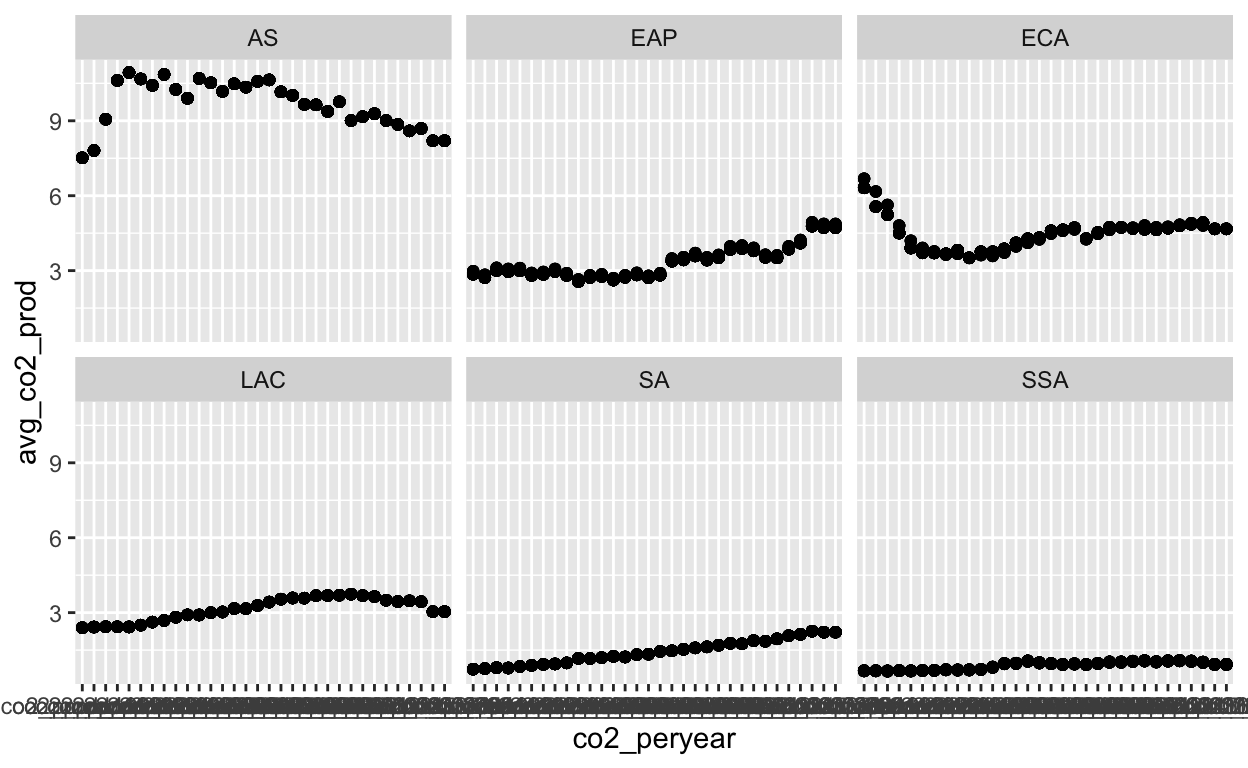
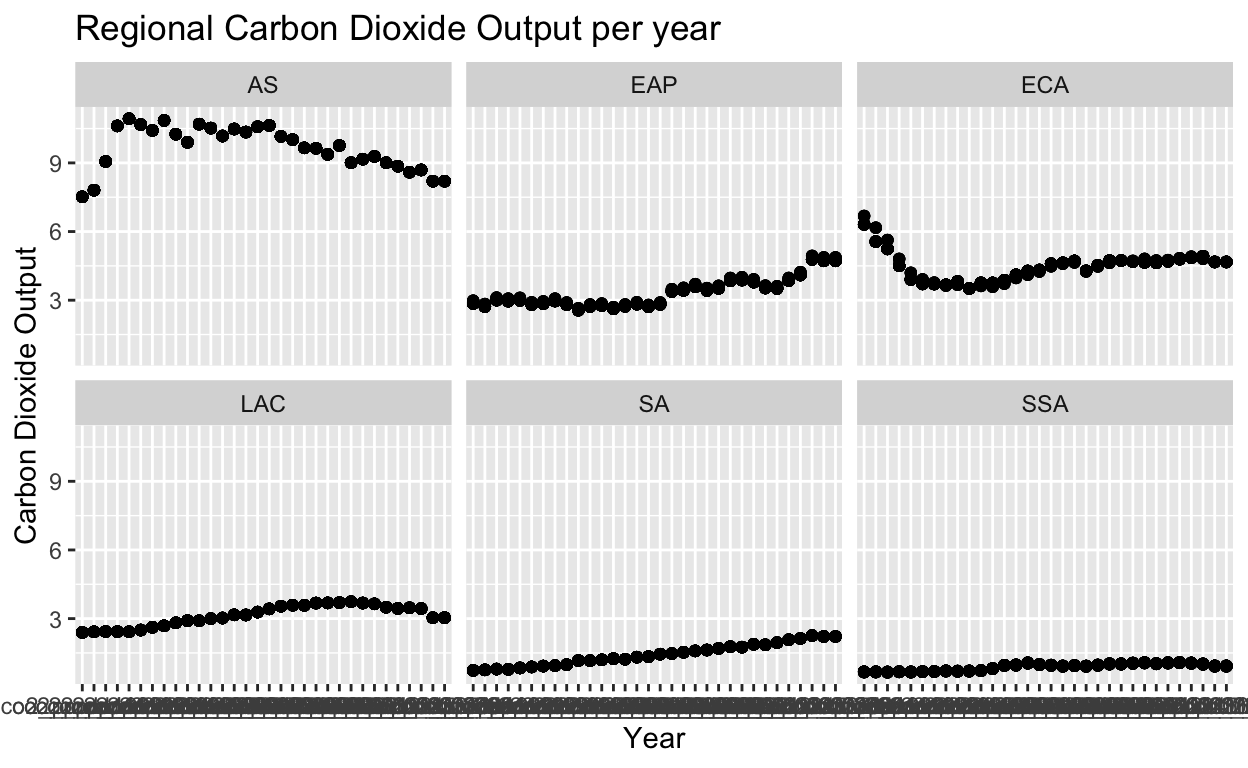
Milestone 4

diff --git a/index.html b/index.html
@@ -1595,7 +1595,12 @@ code span.wa { color: #5e5e5e; font-style: italic; } /* Warning */
 <span>  <span class='fu'><a href='https://ggplot2.tidyverse.org/reference/ggplot.html'>ggplot</a></span><span class='op'>(</span><span class='fu'><a href='https://ggplot2.tidyverse.org/reference/aes.html'>aes</a></span><span class='op'>(</span>x <span class='op'>=</span> <span class='va'>co2_peryear</span>, y <span class='op'>=</span> <span class='va'>avg_co2_prod</span><span class='op'>)</span><span class='op'>)</span> <span class='op'>+</span></span>
 <span>  <span class='fu'><a href='https://ggplot2.tidyverse.org/reference/geom_point.html'>geom_point</a></span><span class='op'>(</span><span class='op'>)</span> <span class='op'>+</span></span>
 <span>  <span class='fu'><a href='https://ggplot2.tidyverse.org/reference/geom_smooth.html'>geom_smooth</a></span><span class='op'>(</span><span class='op'>)</span> <span class='op'>+</span></span>
-<span>  <span class='fu'><a href='https://ggplot2.tidyverse.org/reference/facet_wrap.html'>facet_wrap</a></span><span class='op'>(</span><span class='op'>~</span> <span class='va'>region</span><span class='op'>)</span></span>
+<span>  <span class='fu'><a href='https://ggplot2.tidyverse.org/reference/facet_wrap.html'>facet_wrap</a></span><span class='op'>(</span><span class='op'>~</span> <span class='va'>region</span><span class='op'>)</span> <span class='op'>+</span></span>
+<span>  <span class='fu'><a href='https://ggplot2.tidyverse.org/reference/labs.html'>labs</a></span><span class='op'>(</span></span>
+<span>    title<span class='op'>=</span> <span class='st'>"Regional Carbon Dioxide Output per year"</span>,</span>
+<span>    x <span class='op'>=</span> <span class='st'>"Year"</span>,</span>
+<span>    y <span class='op'>=</span> <span class='st'>"Carbon Dioxide Output"</span></span>
+<span>  <span class='op'>)</span></span>
 <span></span>
 <span><span class='va'>region_co2</span></span></code></pre>
 </div>
@@ -1605,7 +1610,12 @@ code span.wa { color: #5e5e5e; font-style: italic; } /* Warning */
 <span>  <span class='fu'><a href='https://ggplot2.tidyverse.org/reference/ggplot.html'>ggplot</a></span><span class='op'>(</span><span class='fu'><a href='https://ggplot2.tidyverse.org/reference/aes.html'>aes</a></span><span class='op'>(</span>x <span class='op'>=</span> <span class='va'>gnipc_peryear</span>, y <span class='op'>=</span> <span class='va'>avg_gnipc</span><span class='op'>)</span><span class='op'>)</span> <span class='op'>+</span></span>
 <span>  <span class='fu'><a href='https://ggplot2.tidyverse.org/reference/geom_point.html'>geom_point</a></span><span class='op'>(</span><span class='op'>)</span> <span class='op'>+</span></span>
 <span>  <span class='fu'><a href='https://ggplot2.tidyverse.org/reference/geom_smooth.html'>geom_smooth</a></span><span class='op'>(</span><span class='op'>)</span> <span class='op'>+</span></span>
-<span>  <span class='fu'><a href='https://ggplot2.tidyverse.org/reference/facet_wrap.html'>facet_wrap</a></span><span class='op'>(</span><span class='op'>~</span> <span class='va'>region</span><span class='op'>)</span></span>
+<span>  <span class='fu'><a href='https://ggplot2.tidyverse.org/reference/facet_wrap.html'>facet_wrap</a></span><span class='op'>(</span><span class='op'>~</span> <span class='va'>region</span><span class='op'>)</span> <span class='op'>+</span></span>
+<span>  <span class='fu'><a href='https://ggplot2.tidyverse.org/reference/labs.html'>labs</a></span><span class='op'>(</span></span>
+<span>    title<span class='op'>=</span> <span class='st'>"Regional GNI per year"</span>,</span>
+<span>    x <span class='op'>=</span> <span class='st'>"Year"</span>,</span>
+<span>    y <span class='op'>=</span> <span class='st'>"GNI"</span></span>
+<span>  <span class='op'>)</span></span>
 <span>  </span>
 <span><span class='va'>region_GNI</span></span></code></pre>
 </div>
